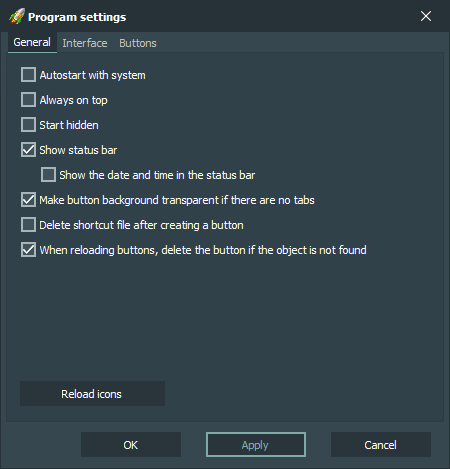
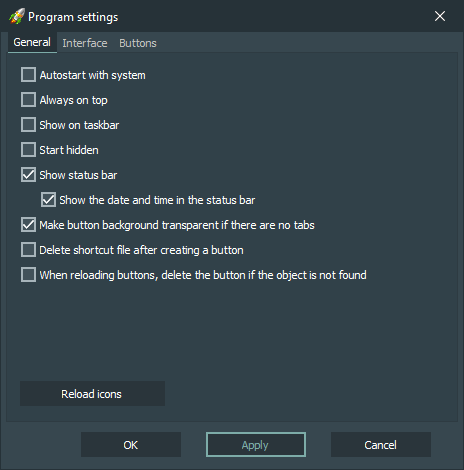
docs updated for v2.9release

diff --git a/docs/ru/changelog.html b/docs/ru/changelog.html
@@ -23,6 +23,14 @@
     <h1>Список изменений</h1>
     <table>
       <tr><td colspan="4"><hr /></td></tr>
+      <tr><th align="left">Версия</th><th align="left">2.9</th><th align="left">Релиз</th></th><th align="right">26.08.2023</th></tr>
+      <tr><td colspan="4">&nbsp;</td></tr>
+      <tr><td align="right" valign="top"><img src="../data/image/added.png" width="16" height="16" alt="Добавлено" /></td><td colspan="3" align="left">Новая опция "Показывать на панели задач".</td></tr>
+      <tr><td align="right" valign="top"><img src="../data/image/added.png" width="16" height="16" alt="Добавлено" /></td><td colspan="3" align="left">Новая опция "Использовать отрицательный индекс" в диалоге выбора иконки.</td></tr>
+      <tr><td align="right" valign="top"><img src="../data/image/updated.png" width="16" height="16" alt="Обновлено" /></td><td colspan="3" align="left">Обновлен алгоритм получения иконок.</td></tr>
+      <tr><td align="right" valign="top"><img src="../data/image/fixed.png" width="16" height="16" alt="Исправлено" /></td><td colspan="3" align="left">Различные незначительные исправления.</td></tr>
+      <tr><td colspan="4">&nbsp;</td></tr>
+      <tr><td colspan="4"><hr /></td></tr>
       <tr><th align="left">Версия</th><th align="left">2.8</th><th align="left">Релиз</th></th><th align="right">16.07.2023</th></tr>
       <tr><td colspan="4">&nbsp;</td></tr>
       <tr><td align="right" valign="top"><img src="../data/image/added.png" width="16" height="16" alt="Добавлено" /></td><td colspan="3" align="left">Новый пункт меню вкладки "Добавить (новую вкладку)" (Ctrl + N).</td></tr>

diff --git a/docs/en/changelog.html b/docs/en/changelog.html
@@ -23,6 +23,14 @@
     <h1>Changelog</h1>
     <table>
       <tr><td colspan="4"><hr /></td></tr>
+      <tr><th align="left">Version</th><th align="left">2.9</th><th align="left">Release</th></th><th align="right">2023-08-26</th></tr>
+      <tr><td colspan="4">&nbsp;</td></tr>
+      <tr><td align="right" valign="top"><img src="../data/image/added.png" width="16" height="16" alt="Added" /></td><td colspan="3" align="left">New option "Show on taskbar".</td></tr>
+      <tr><td align="right" valign="top"><img src="../data/image/added.png" width="16" height="16" alt="Added" /></td><td colspan="3" align="left">New "Use negative index" option in the icon selection dialog.</td></tr>
+      <tr><td align="right" valign="top"><img src="../data/image/updated.png" width="16" height="16" alt="Updated" /></td><td colspan="3" align="left">The algorithm for extracting icons has been updated.</td></tr>
+      <tr><td align="right" valign="top"><img src="../data/image/fixed.png" width="16" height="16" alt="Fixed" /></td><td colspan="3" align="left">Various minor fixes.</td></tr>
+      <tr><td colspan="4">&nbsp;</td></tr>
+      <tr><td colspan="4"><hr /></td></tr>
       <tr><th align="left">Version</th><th align="left">2.8</th><th align="left">Release</th></th><th align="right">2023-07-16</th></tr>
       <tr><td colspan="4">&nbsp;</td></tr>
       <tr><td align="right" valign="top"><img src="../data/image/added.png" width="16" height="16" alt="Added" /></td><td colspan="3" align="left">New tab menu item "Add (new tab)" (Ctrl + N).</td></tr>

diff --git a/docs/ru/doc_btnprops_iconsel.html b/docs/ru/doc_btnprops_iconsel.html
@@ -8,7 +8,7 @@
   </head>
   <body class="page">
     <p>
-      <img src="../data/image/ru/btnprops_iconsel.png" width="389" height="182" alt="Диалог выбора иконки" />
+      <img src="../data/image/ru/btnprops_iconsel.png" width="394" height="210" alt="Диалог выбора иконки" />
     </p>
     <p>
         <strong>Элементы интерфейса:</strong>
@@ -21,6 +21,10 @@
       <li>
         <strong>Индекс</strong><br />
         Содержит индекс иконки в файле, указанном в параметре "Файл".<br /><br />
+      </li>
+      <li>
+        <strong>Использовать отрицательный индекс</strong><br />
+        Используется отрицательное значение индекса иконки в файле, если опция включена.<br /><br />
       </li>
       <li>
         <strong>Кнопка &laquo;OK&raquo;</strong><br />

diff --git a/docs/ru/doc_settingstab_general.html b/docs/ru/doc_settingstab_general.html
@@ -8,7 +8,7 @@
   </head>
   <body class="page">
     <p>
-      <img src="../data/image/ru/settings1.png" width="450" height="469" alt="Окно настроек - Вкладка &laquo;Общие&raquo;" />
+      <img src="../data/image/ru/settings1.png" width="464" height="470" alt="Окно настроек - Вкладка &laquo;Общие&raquo;" />
     </p>
     <p>
         <strong>Общие настройки:</strong>
@@ -21,6 +21,10 @@
       <li>
         <strong>Поверх всех окон</strong><br />
         Главное окно приложения всегда будет находиться поверх всех других окон.<br /><br />
+      </li>
+      <li>
+        <strong>Показывать на панели задач</strong><br />
+        Показывать приложение на панели задач.<br /><br />
       </li>
       <li>
         <strong>Скрывать при старте</strong><br />

diff --git a/docs/en/doc_btnprops_iconsel.html b/docs/en/doc_btnprops_iconsel.html
@@ -8,7 +8,7 @@
   </head>
   <body class="page">
     <p>
-      <img src="../data/image/en/btnprops_iconsel.png" width="389" height="182" alt="Icon select dialog" />
+      <img src="../data/image/en/btnprops_iconsel.png" width="394" height="210" alt="Icon select dialog" />
     </p>
     <p>
         <strong>Interface elements:</strong>
@@ -21,6 +21,10 @@
       <li>
         <strong>Index</strong><br />
         Contains the index number of the icon in the file specified in the "File" parameter.<br /><br />
+      </li>
+      <li>
+        <strong>Use negative index</strong><br />
+        The negative index value of the icon in the file is used if the option is enabled.<br /><br />
       </li>
       <li>
         <strong>&laquo;OK&raquo; button</strong><br />

diff --git a/docs/en/doc_settingstab_general.html b/docs/en/doc_settingstab_general.html
@@ -8,7 +8,7 @@
   </head>
   <body class="page">
     <p>
-      <img src="../data/image/en/settings1.png" width="450" height="469" alt="Settings window - Tab General" />
+      <img src="../data/image/en/settings1.png" width="464" height="470" alt="Settings window - Tab General" />
     </p>
     <p>
         <strong>General options:</strong>
@@ -21,6 +21,10 @@
       <li>
         <strong>Always on top</strong><br />
         The main window of the application will always be located on top of all other windows.<br /><br />
+      </li>
+      <li>
+        <strong>Show on taskbar</strong><br />
+        Show the application on the taskbar.<br /><br />
       </li>
       <li>
         <strong>Start hidden</strong><br />

diff --git a/docs/index.ru.html b/docs/index.ru.html
@@ -55,12 +55,7 @@
                 </ul>
               </li>
               <li><a href="ru/doc_renametab.html" target="iframe_main">Окно переименования вкладки</a></li>
-            </ul>
-          </li>
-          <li><strong>Часто задаваемые вопросы</strong>
-            <ul>
               <li><a href="ru/hotkeys.html" target="iframe_main">Горячие клавиши</a></li>
-              <li><a href="ru/doyouknow.html" target="iframe_main">Знаете ли Вы?</a></li>
             </ul>
           </li>
         </ul> 

diff --git a/docs/index.html b/docs/index.html
@@ -55,12 +55,7 @@
                 </ul>
               </li>
               <li><a href="en/doc_renametab.html" target="iframe_main">Tab rename window</a></li>
-            </ul>
-          </li>
-          <li><strong>Frequently Asked Questions</strong>
-            <ul>
               <li><a href="en/hotkeys.html" target="iframe_main">Hotkeys</a></li>
-              <li><a href="en/doyouknow.html" target="iframe_main">Do You know?</a></li>
             </ul>
           </li>
         </ul> 

diff --git a/docs/ru/doc_settings.html b/docs/ru/doc_settings.html
@@ -8,7 +8,7 @@
   </head>
   <body class="page">
     <p>
-      <img src="../data/image/ru/settings.png" width="450" height="469" alt="Окно настроек" />
+      <img src="../data/image/ru/settings.png" width="464" height="470" alt="Окно настроек" />
     </p>
     <p>
         <strong>Элементы интерфейса:</strong>

diff --git a/docs/en/doc_settings.html b/docs/en/doc_settings.html
@@ -8,7 +8,7 @@
   </head>
   <body class="page">
     <p>
-      <img src="../data/image/en/settings.png" width="450" height="469" alt="Settings window" />
+      <img src="../data/image/en/settings.png" width="464" height="470" alt="Settings window" />
     </p>
     <p>
         <strong>Interface elements:</strong>
